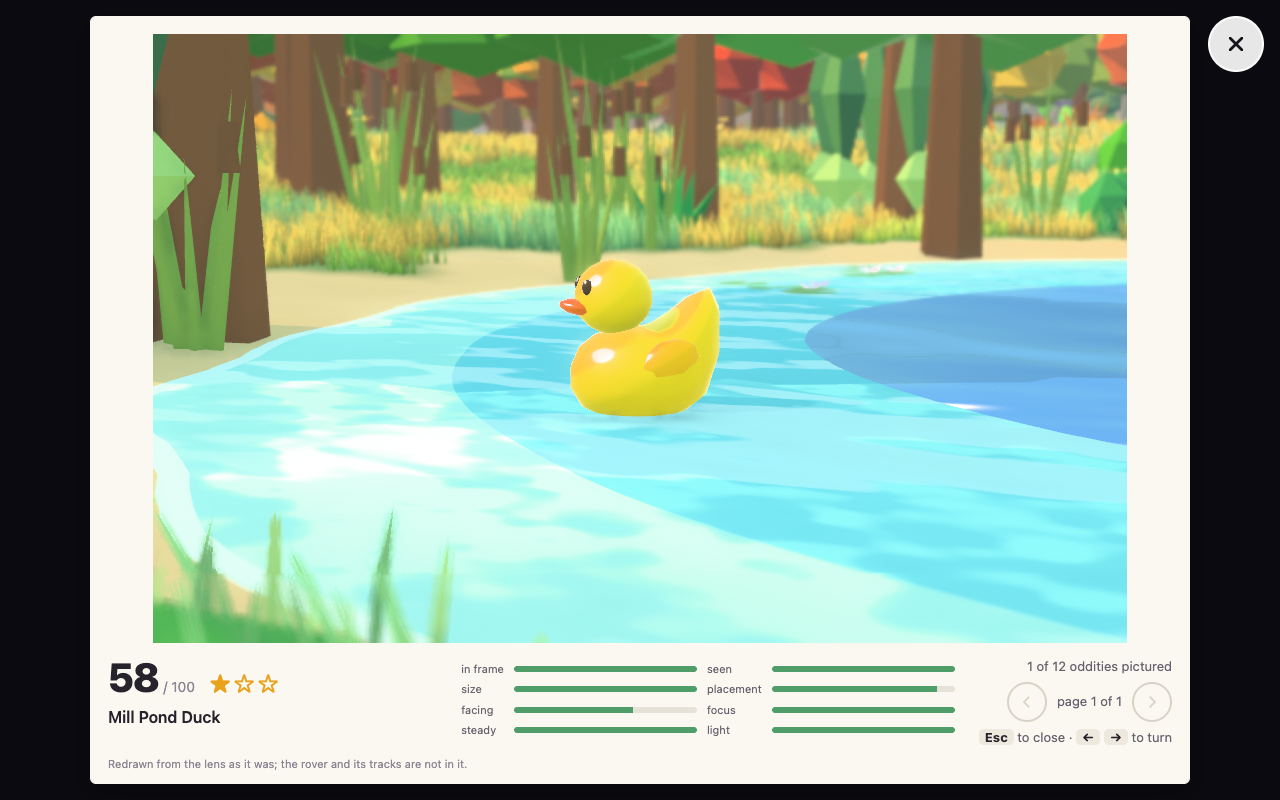
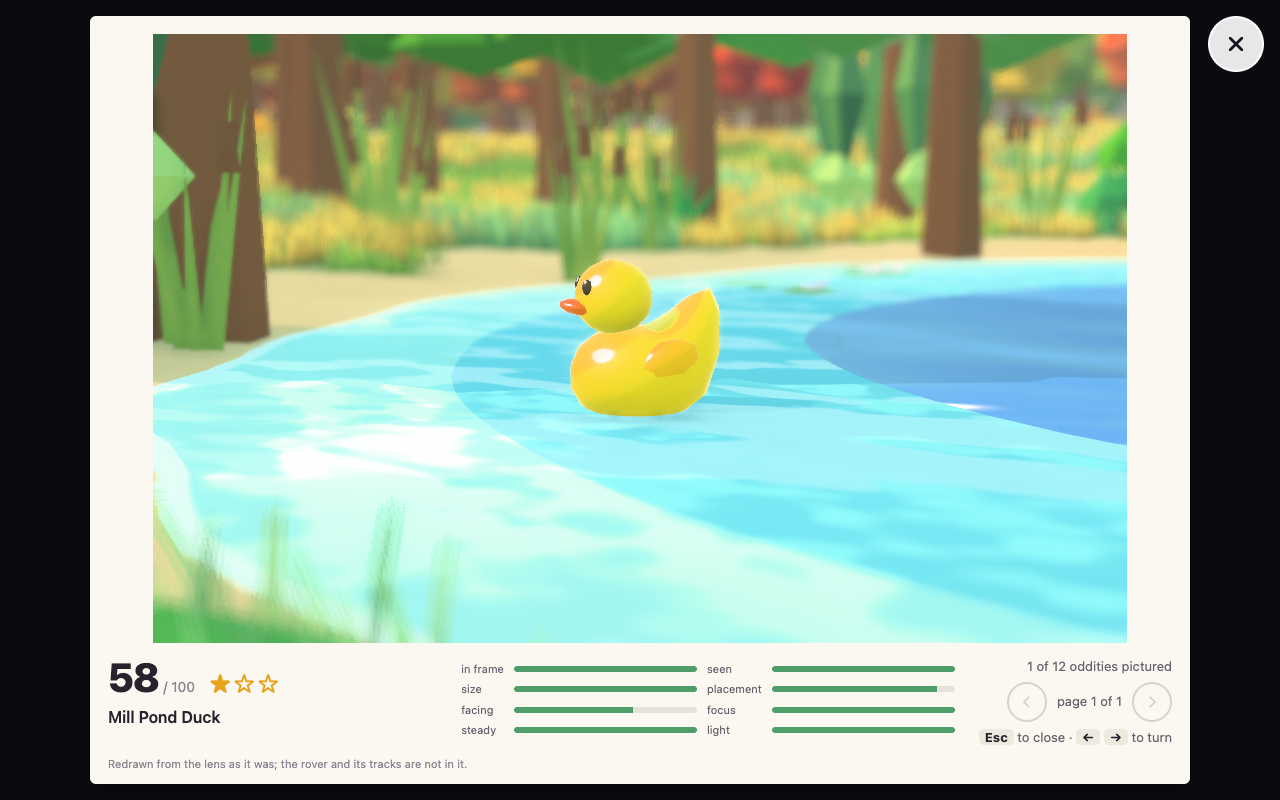
The viewfinder draws its depth of field three times as strong as the lens's, and says what the lens is focused on
From the user's play of 2026-10-21: the depth of field "doesn't seem to work". It did, and honestly: at f/2.8 on a
24 mm sensor the thin lens blurs the background of a 50 mm shot focused at 50 units by about three pixels at 800
tall, which in a flat-shaded picture reads as no blur at all. The grade keeps the honest lens and its stars do not
change; the frame now draws the pass's strength `LENS.look` (3) times the lens's, the band and the focus as they
were. Three was chosen from a sheet of the duck and the gnome at one, two, three and four times. The album's pages
share the blur and are drawn the same, so `album.png` is written again: the pond's far bank soft behind the duck.

The HUD shows the focus distance beside the focal length ("70 mm · 3.2 m"), rewritten only when it changes, so a
player sees what the lens is on. And the page handed the frame rung a frame time clamped to a twentieth of a second,
so the rung's rule to ignore a frame longer than a quarter (a tab in the background, a compile) could never fire;
`rungDt` in view.ts hands it the raw seconds, clamped only at nought, with a test.

Tests: the pass's strength is three times the thin lens's for a fixed lens and the band and depth unchanged; every
graded row's stars unchanged; `rungDt` passes 0.3 s through and a frame rung stepped 600 times on it stays at nought.
The perf gate: boot 1313 to 1289 ms, frame 3.83 to 3.84 ms, both within tolerance; the download 200,865 to 200,926
[…]

diff --git a/test/score.test.ts b/test/score.test.ts
@@ -705,7 +705,7 @@ describe('the depth of field the blur is drawn with', () => {
       [24, 30],
     ]) {
       depthOfField(focal, LENS.aperture, focus, REACH, out);
-      const strength = out[1];
+      const strength = out[1] / LENS.look;
       // the pass's radius, strength times the share off the focus, against the grade's circle's radius as a share of
       // the sensor's height: the same, short of the band, which takes a hair off near the focus
       for (const d of [focus * 1.5, focus * 3, focus * 0.7]) {
@@ -714,6 +714,23 @@ describe('the depth of field the blur is drawn with', () => {
         if (pass < REACH) expect(pass / lens, `${focal} mm at ${d}`).toBeCloseTo(1, 9);
       }
     }
+  });
+
+  it('draws the blur `look` times the thin lens’s strength, and the band and distance as they were', () => {
+    // the strength before the look factor, from the thin lens's own sum: its circle's factor, halved to a radius, over
+    // the sensor's height and the pass's reach
+    const k = (50 / LENS.aperture) * (50 / (10 * 100 - 50));
+    const honest = k / 2 / LENS.sensor / REACH;
+    expect(LENS.look).toBe(3);
+    depthOfField(50, LENS.aperture, 10, REACH, out);
+    expect(out[1]).toBeCloseTo(3 * honest, 12);
+    const share = GRADE.focus.sharp / k;
+    expect(out[0]).toBeCloseTo((2 * 10 * share) / (1 + share), 12);
+    const shot = new Shot();
+    shot.focus = 10;
+    const blur = new Float64Array(3);
+    shotBlur(shot, new Float64Array(2), REACH, blur);
+    expect(blur[2]).toBe(10);
   });
 
   it('keeps sharp what the grade calls sharp: the band reaches to where the circle is the sharp one', () => {

diff --git a/src/hud.ts b/src/hud.ts
@@ -50,8 +50,8 @@ export class ViewfinderHud {
   private readonly names: HTMLElement[] = [];
   /** Each bracket as last written: left, top, width, height in pixels, in focus, which oddity; -1 hidden. */
   private readonly written = new Int32Array(BRACKETS.most * 6).fill(-1);
-  /** The focus mark as last written: x, y in pixels, in focus; the mode (1 manual) and the lens in whole mm. */
-  private readonly markWritten = new Int32Array(5).fill(-1);
+  /** The focus mark as last written: x, y in pixels, in focus; the mode (1 manual), the lens in whole mm and the focus in tenths of a metre. */
+  private readonly markWritten = new Int32Array(6).fill(-1);
   /** What the focus was last on, and how (1 manual): a change to something is a lock, and the mark pulses. */
   private readonly locked = new Int32Array([-1, 0]);
   private cardTimer = 0;
@@ -183,7 +183,10 @@ export class ViewfinderHud {
       }
     }
     const mm = Math.round(vf.focal);
-    if (m[4] !== mm) this.lens.textContent = `${mm} mm`;
+    // a unit is a tenth of a metre, so the focus's whole units are the text's tenths
+    const tenths = Math.round(vf.shot.focus);
+    if (m[4] !== mm || m[5] !== tenths) this.lens.textContent = `${mm} mm · ${(tenths / 10).toFixed(1)} m`;
+    m[5] = tenths;
     m[0] = mx;
     m[1] = my;
     m[2] = onSharp;

diff --git a/src/main.ts b/src/main.ts
@@ -39,7 +39,7 @@ import { Progress } from './progress';
 import { seeded } from './random';
 import { Scene, type Played } from './scene';
 import { shotBlur } from './score';
-import { FrameRung, RUNG_STEPS } from './view';
+import { FrameRung, RUNG_STEPS, rungDt } from './view';
 import { Shot, aimOf, fovOf } from './viewfinder';
 import { GameSound, LazySound } from './sound';
 import { mountStick } from './touch';
@@ -721,7 +721,8 @@ async function main() {
   const frame = (now: number) => {
     requestAnimationFrame(frame);
     // a frame's own timestamp can come before the moment the loop was set up, and the music refuses time that runs back
-    const dt = Math.min(Math.max((now - last) / 1000, 0), 1 / 20);
+    const raw = (now - last) / 1000,
+      dt = Math.min(Math.max(raw, 0), 1 / 20);
     last = now;
     if (measuring) return;
     // an album page is drawn when it changes, and stands while it is read
@@ -732,7 +733,7 @@ async function main() {
     }
     simulate(dt);
     draw(dt, false);
-    if (asked === null && rung.step(dt)) toRung(rung.rung);
+    if (asked === null && rung.step(rungDt(raw))) toRung(rung.rung);
   };
   ready = true;
   booted = true;

diff --git a/src/score.ts b/src/score.ts
@@ -131,6 +131,7 @@ export function blurOf(focal: number, aperture: number, focus: number, distance:
  *    The pass's band is the same depth either way and the lens's is not (a little more lies sharp behind the focus
  *    than in front of it), so the nearer side's is taken both ways: nothing the grade calls blurred is drawn sharp.
  *
+ * The strength is drawn `LENS.look` times the lens's, for the toon frame's sake; the band and the grade are the lens's.
  * A focus no further off than the focal length, which no lens here can be set to, is no blur at all.
  */
 export function depthOfField(focal: number, aperture: number, focus: number, reach: number, out: Float64Array): void {
@@ -142,7 +143,7 @@ export function depthOfField(focal: number, aperture: number, focus: number, rea
   const k = (focal / aperture) * (focal / (s1 - focal));
   const share = GRADE.focus.sharp / k;
   out[0] = (2 * focus * share) / (1 + share);
-  out[1] = k / 2 / LENS.sensor / reach;
+  out[1] = (LENS.look * k) / 2 / LENS.sensor / reach;
 }
 
 /**

diff --git a/src/viewfinder.ts b/src/viewfinder.ts
@@ -23,8 +23,13 @@ import type { Ground } from './world/types';
 
 const DEG = Math.PI / 180;
 
-/** The lens: its focal lengths in mm, the sensor's height in mm, and its fixed aperture as an f-number. */
-export const LENS = { least: 24, most: 135, start: 50, sensor: 24, aperture: 2.8 } as const;
+/**
+ * The lens: its focal lengths in mm, the sensor's height in mm, its fixed aperture as an f-number, and `look`, how many
+ * times the thin lens's blur the toon frame draws. A few pixels of blur read as none in a flat-shaded picture, so the
+ * picture is blurred three times as much as the lens would, while the grade keeps the honest lens and the stars do not
+ * move.
+ */
+export const LENS = { least: 24, most: 135, start: 50, sensor: 24, aperture: 2.8, look: 3 } as const;
 
 /** How far the look turns either way of the rover's heading, and tilts down and up, in radians. */
 export const LOOK = { turn: Math.PI, down: 50 * DEG, up: 60 * DEG } as const;

diff --git a/test/view.test.ts b/test/view.test.ts
@@ -3,6 +3,7 @@ import { describe, expect, it } from 'vitest';
 import {
   ChunkView,
   FrameRung,
+  rungDt,
   GROUND,
   KIT,
   RINGS,
@@ -251,6 +252,15 @@ describe('the frame-time rungs', () => {
     const r = new FrameRung();
     run(r, 1, 30);
     for (let k = 0; k < 600; k++) r.step(0);
+    expect(r.rung).toBe(0);
+  });
+
+  it('is handed the frame as it took, not as the game was stepped: a long frame passes through to be ignored', () => {
+    expect(rungDt(0.3)).toBe(0.3);
+    expect(rungDt(1 / 60)).toBe(1 / 60);
+    expect(rungDt(-0.5)).toBe(0);
+    const r = new FrameRung();
+    for (let k = 0; k < 600; k++) r.step(rungDt(0.3));
     expect(r.rung).toBe(0);
   });
 

diff --git a/src/view.ts b/src/view.ts
@@ -302,6 +302,15 @@ export const RUNG_STEPS = [
  */
 export const RUNG = { slow: 1 / 45, hold: 2, window: 0.5, ignore: 0.25 } as const;
 
+/**
+ * The seconds the rung is handed for a frame: as long as the frame took, from nought, and not clamped to the step the
+ * game is simulated by, which would turn a long frame (a tab in the background, a compile) into a slow one that
+ * `RUNG.ignore` never got to ignore.
+ */
+export function rungDt(seconds: number): number {
+  return seconds > 0 ? seconds : 0;
+}
+
 /** The rung the page draws at, from how long its frames take. Makes nothing. */
 export class FrameRung {
   /** Which of `RUNG_STEPS` is drawn now. */

diff --git a/docs/specs/photo.md b/docs/specs/photo.md
@@ -28,6 +28,9 @@ added to artshape-render's game path, released as v0.47.0 and pinned here.
   is under the middle. A click or tap without a drag sets the focus on what is under it and holds it (manual); A,
   or the AF button, goes back to auto. What is out of focus is blurred by its distance from the focus (the
   depth-of-field pass), and a small focus mark shows where it is.
+  The blur is drawn at three times the thin lens's strength (`LENS.look`), chosen from a sheet on 2026-10-21 because a
+  few pixels of blur read as none in a flat-shaded picture; the grade keeps the honest lens, so stars do not change.
+  The HUD shows the focus distance in metres beside the focal length.
 - **Highlights:** every oddity in the frame and seen (not hidden behind the ground, rock or something built) gets
   corner brackets and its name, brighter when it is in focus. Nothing else is bracketed.
 - **The shutter:** Space, a click on the shutter button, or a tap on it: a flash, then a card with the grade (out of

diff --git a/plans/play-notes.md b/plans/play-notes.md
@@ -1,6 +1,6 @@
 # Play notes, 2026-10-21: six fixes, six commits
 
-State: building, part 3 of 6.
+State: building, part 4 of 6.
 
 Copied to `plans/play-notes.md` in the repo as the first act of building, and
 ticked there (the kit's `checks/plans.md`). Built on `sonnet` or by the
@@ -145,7 +145,7 @@ Report each part with its figures before and after.
     the per-placement card cut in artshape-render, tree uvs and a noise
     image) and an x-ray circle (a new masked pass). Both are that repo's.
 
-- [ ] **Part 2. The depth of field can be seen.**
+- [x] **Part 2. The depth of field can be seen.**
       Files: `src/score.ts` (`depthOfField`, 136-146), `src/main.ts`, `src/hud.ts`,
       `src/view.ts`, `test/score.test.ts`, `test/view.test.ts`,
       `docs/specs/photo.md` (note the choice).
